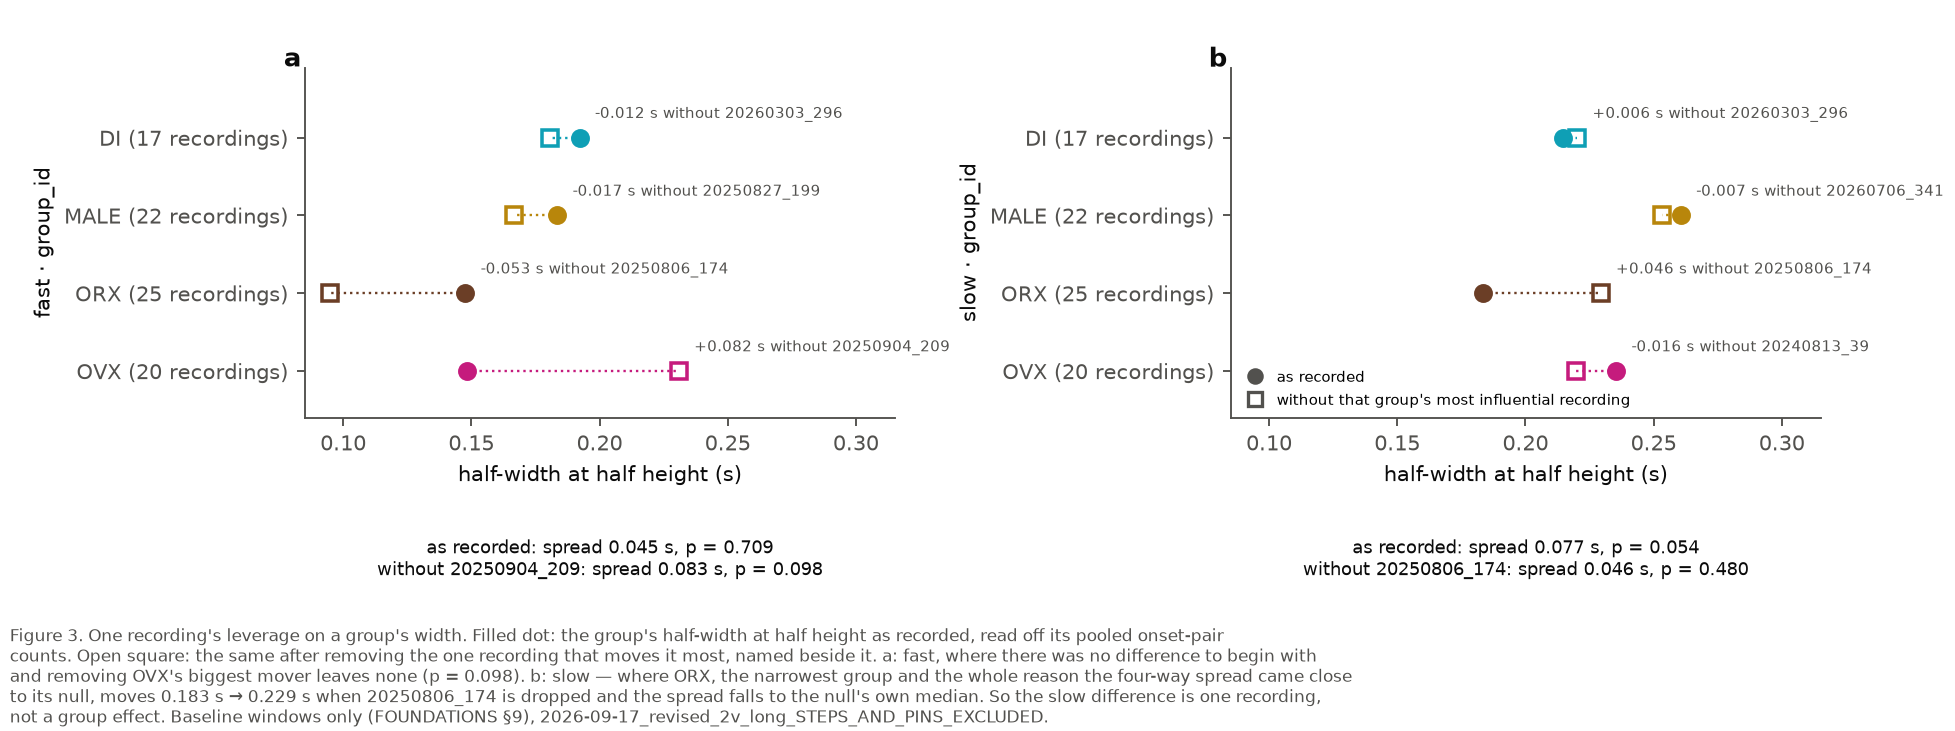
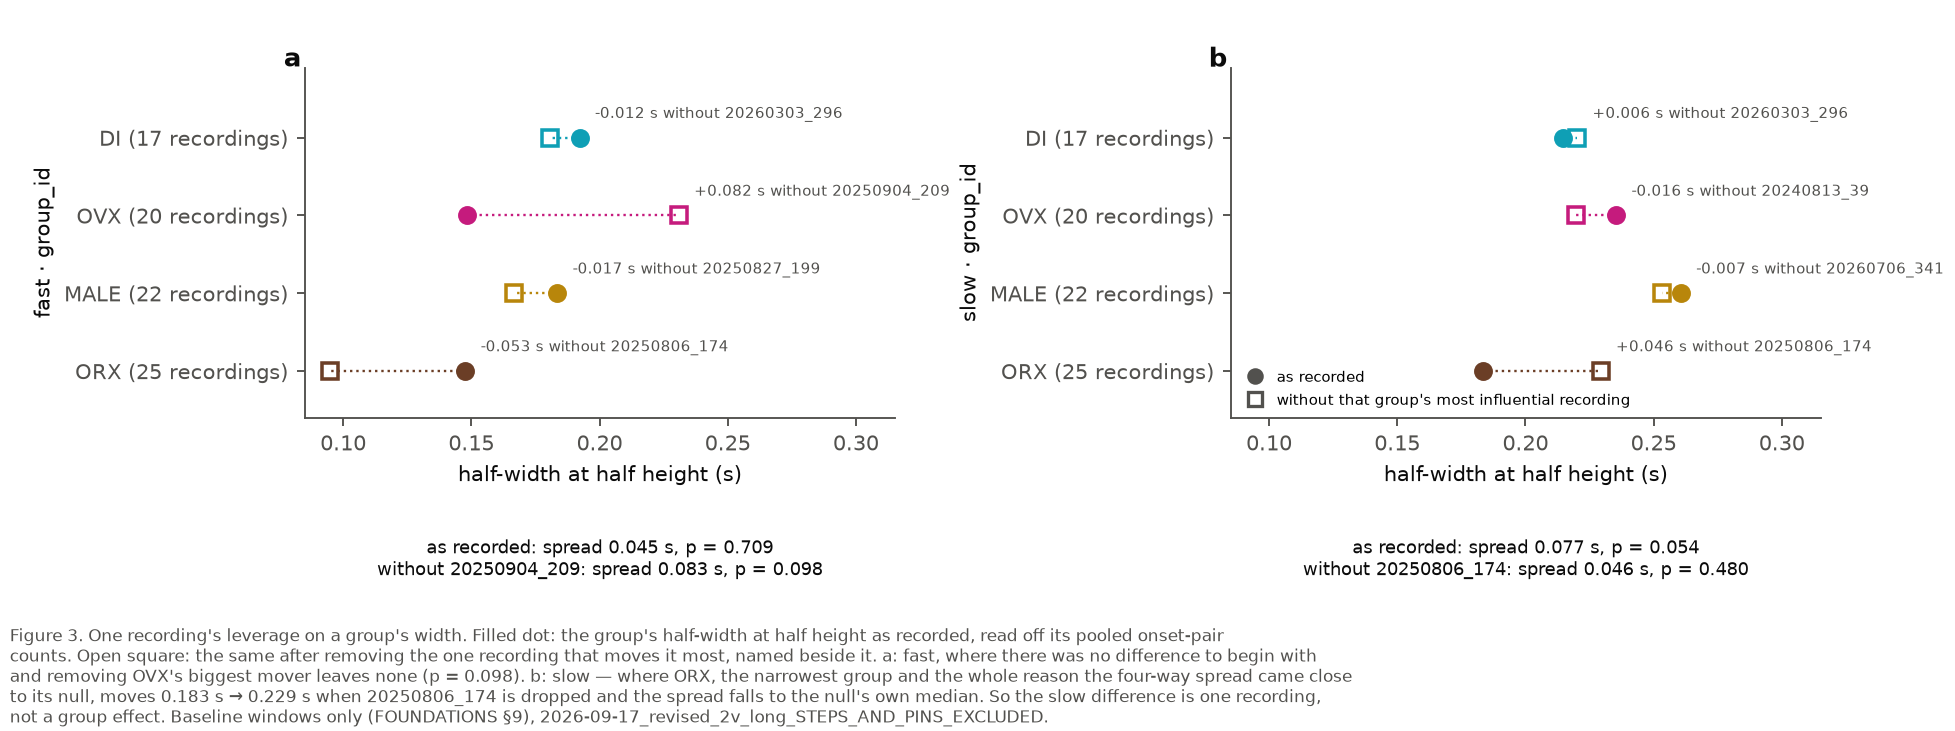
The correlogram figures take the group order from bugarach.groups, and the 66-recording rerun is staged
Tony gave the display order DI, OVX, MALE, ORX today and it lives in
`bugarach.groups`. The three correlogram scripts had a hand-typed tuple in the
old order, so they now import it and the 2026-09-22 figures are redrawn — the
same numbers, the rows in the order a reader will meet everywhere else. The
group-order test scans src/ and tools/ only, so these would not have been caught.

Staged for the rerun the orchestrator asked for on the new 66-recording export:
the darkroom claim for the three recordings that carry a group, and the script
that will lay the 84 against the 66 group by group — half-width and zero-lag peak
height, the two quantities the normalised panels show neither of.

Nothing has been run on the new folder: `dataset.default()` refuses until Tony
confirms it this session, and it is not confirmed on his behalf.

diff --git a/docs/learned/runs/2026-09-23-jitter-by-group-66/compare_84_vs_66.py b/docs/learned/runs/2026-09-23-jitter-by-group-66/compare_84_vs_66.py
@@ -1,0 +1,100 @@
+"""The 2026-09-22 run on 84 recordings against this one on 66, group by group.
+
+    python docs/learned/runs/2026-09-23-jitter-by-group-66/compare_84_vs_66.py
+
+Prints the markdown table the README carries. The two folders' recording files are
+byte-identical (sha256) on the 66 recordings they share — the producer checked it and
+`current_export.toml`'s `senktide_ttx` note records it — so nothing here differs because of
+event derivation. What differs is the recording set: the 66 keeps only the senktide- and
+TTX-first recordings, which takes MALE from 22 to 13, ORX from 25 to 19, OVX from 20 to 17 and
+leaves DI at 17.
+
+Two quantities per group, because Figure 1's normalised panels show neither on its own:
+
+* the **half-width at half height** (s), the width statistic; and
+* the **zero-lag peak height**, the excess coincidence at lag 0 — observed ÷ expected onset
+  pairs − 1, dimensionless, where 0 means no more pairs than the ROIs' own rates predict.
+
+Groups are listed in ``bugarach.groups.GROUP_ORDER`` (DI, OVX, MALE, ORX).
+"""
+from __future__ import annotations
+
+import argparse
+import json
+import sys
+from pathlib import Path
+
+HERE = Path(__file__).resolve().parent
+REPO = HERE.parents[3]
+sys.path.insert(0, str(REPO / "src"))
+
+from bugarach.groups import GROUP_ORDER  # noqa: E402
+
+OLD = REPO / "docs/learned/runs/2026-09-22-jitter-by-group/jitter_correlogram.json"
+
+
+def row(rec, stream, group):
+    """(recordings, half-width s, zero-lag excess) for one group, or None if absent."""
+    st = rec["streams"][stream]
+    g = st["groups"].get(group)
+    if not g:
+        return None
+    return g["recordings"], g["hwhm"]["real_sec"], g["real_excess"][0]
+
+
+def pooled_row(rec, stream):
+    st = rec["streams"][stream]
+    return st["recordings"], st["hwhm"]["real_sec"], st["real_excess"][0]
+
+
+def table(old, new) -> str:
+    out = ["| stream | group | recordings | half-width (s) | zero-lag peak (excess coincidence) |",
+           "|---|---|---:|---:|---:|"]
+    for stream in ("fast", "slow"):
+        for group in (*GROUP_ORDER, None):
+            a = pooled_row(old, stream) if group is None else row(old, stream, group)
+            b = pooled_row(new, stream) if group is None else row(new, stream, group)
+            if a is None and b is None:
+                continue
+            name = "**pooled**" if group is None else group
+            cells = [f"{a[0]} → {b[0]}" if a and b else "—",
+                     f"{a[1]:.3f} → {b[1]:.3f}" if a and b else "—",
+                     f"{a[2]:.1f} → {b[2]:.1f}" if a and b else "—"]
+            out.append(f"| {stream} | {name} | " + " | ".join(cells) + " |")
+    return "\n".join(out)
+
+
+def verdicts(old, new) -> str:
+    lines = []
+    for stream in ("fast", "slow"):
+        for label, rec in (("84", old), ("66", new)):
+            c = rec["streams"][stream]["contrasts"]["hwhm"]
+            w = c["without_most_influential"]
+            lines.append(f"* **{stream}, {label} recordings** — spread {c['spread_sec']:.3f} s, "
+                         f"p = {c['permutation']['p_any_difference']:.3f}; without "
+                         f"{w['slice_id']}, spread {w['spread_sec']:.3f} s, "
+                         f"p = {w['p_any_difference']:.3f}.")
+        loo = new["streams"][stream]["groups"].get("ORX", {}).get("hwhm", {}).get("leave_one_out")
+        if loo:
+            lines.append(f"* **{stream}, ORX's biggest mover on the 66** — {loo['slice_id']}: "
+                         f"{loo['delta_sec']:+.3f} s without it.")
+    return "\n".join(lines)
+
+
+def main(argv=None) -> int:
+    ap = argparse.ArgumentParser(description=__doc__,
+                                 formatter_class=argparse.RawDescriptionHelpFormatter)
+    ap.add_argument("--old", type=Path, default=OLD, help="the 84-recording record")
+    ap.add_argument("--new", type=Path, default=HERE / "jitter_correlogram.json")
+    a = ap.parse_args(argv)
+    old = json.loads(a.old.read_text(encoding="utf-8"))
+    new = json.loads(a.new.read_text(encoding="utf-8"))
+    print(f"84: {old['dataset']['name']}\n66: {new['dataset']['name']}\n")
+    print(table(old, new))
+    print()
+    print(verdicts(old, new))
+    return 0
+
+
+if __name__ == "__main__":
+    raise SystemExit(main())

diff --git a/docs/learned/runs/2026-09-22-jitter-by-group/plot_jitter_by_group.py b/docs/learned/runs/2026-09-22-jitter-by-group/plot_jitter_by_group.py
@@ -35,9 +35,10 @@ HERE = Path(__file__).resolve().parent
 REPO = HERE.parents[3]
 sys.path.insert(0, str(REPO / "src"))
 
+from bugarach.groups import GROUP_ORDER  # noqa: E402  (DI, OVX, MALE, ORX — Tony, 2026-09-23)
+
 FOLDER = "correlogram"                   # the darkroom folder Tony asked the figures to gather in
 GROUP_INK = {"DI": "#0f9fb5", "MALE": "#b8860b", "ORX": "#6b3e26", "OVX": "#c51b7d"}
-GROUP_ORDER = ("DI", "MALE", "ORX", "OVX")
 INK, MUTED = "#0b0b0b", "#52514e"
 PEAK_LAG_SEC = 3.0
 

diff --git a/docs/SESSIONS.md b/docs/SESSIONS.md
@@ -10,6 +10,19 @@ cannot travel (live process ids, that box's free disk, local scratch paths).
 
 ---
 
+### candid-sorrel/recordings-that-carry-a-group — DARKROOM claim ACTIVE 2026-09-23: `bugarach/2026-09-23-recordings-that-carry-a-group/` (NEW)
+- **Status:** ACTIVE, claimed before writing. The orchestrator's brief at Tony's request: render the
+  baseline windows of the three recordings that two independent measures put in front of a group —
+  `20250806_174` (ORX), `20260702_334` (OVX), `20260115_243` (ORX) — fast and slow, and describe
+  what is visible. Nothing is filtered: which recordings are in the folder is the producer's call.
+- **Writes:** that folder only, a NEW one. The companion claim on `bugarach/correlogram/` below stays
+  mine and takes the rerun's three figures. Nothing else under `<darkroom>/bugarach/` is touched, and
+  `constellation/` is not touched.
+- **Reads:** `senktide_ttx`, the 66-recording export — **held until Tony confirms it this session**.
+- **Goal:** none of the four; it measures a bench constant per group and looks at three recordings.
+
+---
+
 ### 065/roi-table — DARKROOM claim RELEASED 2026-09-23: `bugarach/roi_table/` (NEW)
 - **Status:** **RELEASED 2026-09-23** — `roi_table.md`, `.csv` and `.json` written by
   `tools/make_roi_table.py`, with the same three files as a repo copy under `docs/learned/roi_table/`.
